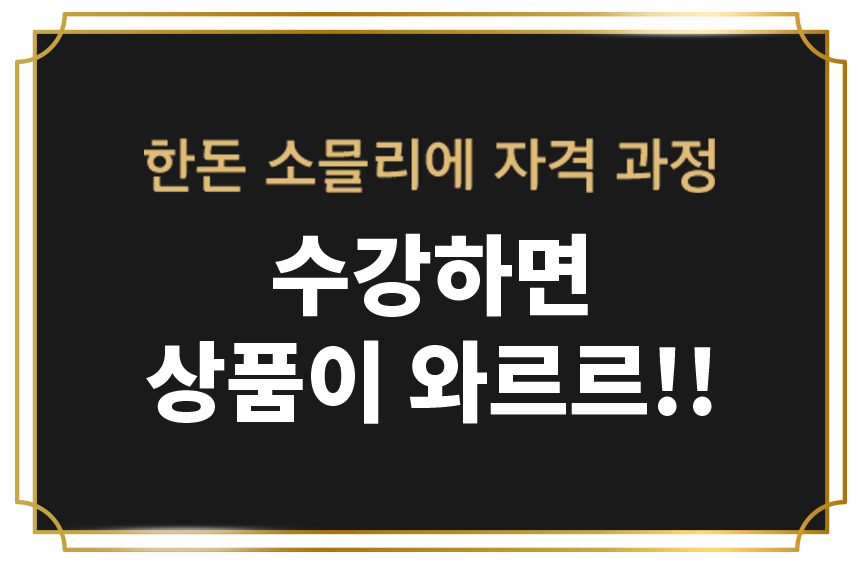
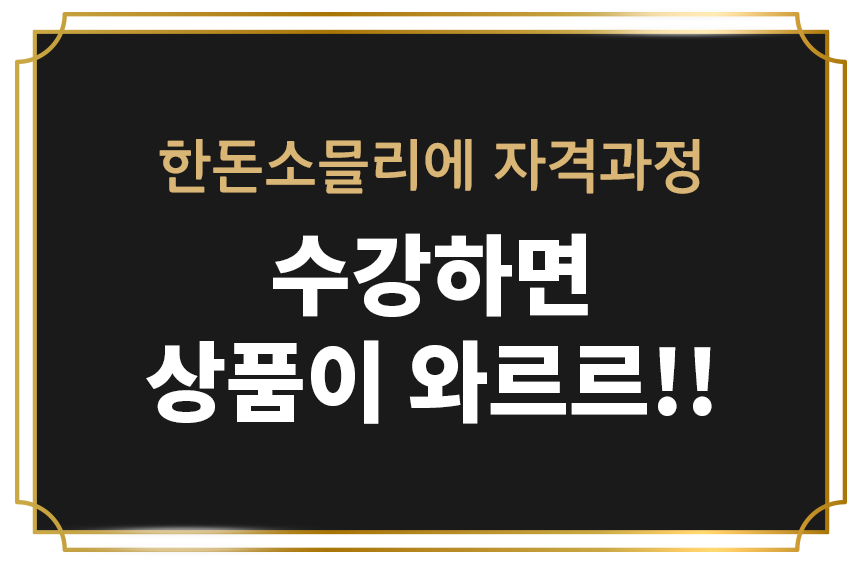
소스 최신화

Changed region(s): [[0.1515, 0.2382, 0.5455, 0.3573], [0.5758, 0.2382, 0.8485, 0.3573]]

diff --git a/99.src/m/index.html b/99.src/m/index.html
@@ -5,6 +5,7 @@
     <meta http-equiv="Content-Type" content="text/html; charset=utf-8" />
     <meta name="viewport" content="width=device-width, initial-scale=1.0" />
     <meta http-equiv="X-UA-Compatible" content="IE=edge" />
+    <meta name="format-detection" content="telephone=no" />
 
     <title>한돈대학</title>
     <meta name="description" content="돈믈리에">
@@ -46,7 +47,7 @@
                             <a href="javascript: void(0);" class="slnb_link" lnb-index="2">
                                 <span class="slnb_txt_box">
                                 <span class="slnb_txt">
-                                    한돈 소믈리에 자격증
+                                    한돈소믈리에 자격증
                                 </span>
                                 </span>
                             </a>
@@ -81,7 +82,7 @@
                     <div class="section_cont">
                         <div class="s01_text_w">
                             <span class="s01_text">
-                            한돈대학 한돈 소믈리에 자격증
+                            한돈대학 한돈소믈리에 자격증
                         </span>
                             <div class="s01_motion_text" data-aos="fade-up" data-aos-duration="3000">
                                 증명하라!<br/> 당신의 고기부심
@@ -104,6 +105,10 @@
             <div id="section_02" class="section_02_w" style="background-image:url('../public/imgs/m/s02_bg.jpg');">
                 <div class="section_inner">
                     <div class="section_cont">
+                        <div class="section_cont" style="text-align: center;">
+                            <span class="s02_title">한돈소믈리에 교육과정<br>지식돈돈!! 한돈능력자 되기!</span>
+                        </div>
+                        <br>
                         <div class="section_left">
                             <div class="s02_image_w">
                                 <img src="../public/imgs/m/s02_left_img.png" alt="한돈 소믈리에 자격증 사전 수강 신청만 해도 선물이 펑펑!">
@@ -155,16 +160,16 @@
                         </div>
                         <div class="section_right">
                             <div class="s0301_motion_text" data-aos="fade-up" data-aos-duration="3000">
-                                한돈 소믈리에 자격증에<br/> 도전해야 하는 7가지 이유
+                                한돈소믈리에 자격증에<br/> 도전해야 하는 7가지 이유
                             </div>
                             <div class="s0302_motion_text" data-aos="fade-up" data-aos-duration="3500">
                                 <ul>
                                     <li><span class="number">1</span>당신의 고기부심은 한낱 허세가 아니었음을 증명할 수 있다.</li>
-                                    <li><span class="number">2</span>돈과 명예를 가진 상위 0.1% 돼지 전문가가 될 수 있다.</li>
-                                    <li><span class="number">3</span>불판위의 권력자! 고기 집게 독점권으로 고기지식 TMI 대방출이 가능하다.</li>
+                                    <li><span class="number">2</span>돈(豚)과 명예를 가진 상위 0.1% 한돈 전문가가 될 수 있다.</li>
+                                    <li><span class="number">3</span>불판위의 권력자! 고기 집게 독점권으로 한돈지식 TMI 대방출이 가능하다.</li>
                                     <li><span class="number">4</span>남들의 시선을 즐겨라, 당신의 한돈 부심을 SNS에 마음껏 알릴 수 있다.</li>
                                     <li><span class="number">5</span>숙련된 손놀림, 철저한 각도 조절과 완벽한 타이밍으로 고기를 뒤집는 순간!<br/>상대방은 이미 당신에게 폴인럽.. 매력 포텐 뽐뿌의 지름길!</li>
-                                    <li><span class="number">6</span>1등급 바로 너! 사장님이 꽁꽁 숨겨놓은 고퀄리티 고기도 놓치지 않고 획득할 수 있다.</li>
+                                    <li><span class="number">6</span>1등급 바로 너! 사장님이 꽁꽁 숨겨놓은 고퀄리티 한돈도 놓치지 않고 획득할 수 있다.</li>
                                     <li><span class="number">7</span>고기를 태워도 마이야르라고 이야기 할 수 있는 용서권을 얻는다.</li>
                                 </ul>
                             </div>
@@ -194,9 +199,10 @@
                 <div class="section_inner">
                     <div class="section_cont">
                         <div class="s05_text">
+                            <span class="s05_title_sub2">단 3회 온라인 강의 수강으로<br>이제부터 나도 한돈소믈리에!</span>
                             <strong class="s05_title_w">
                             <span class="s05_title_sub">지금부터 - 당신의 고기부심 체크!</span>
-                            한돈 소믈리에<br/>자격과정
+                            한돈소믈리에<br/>자격과정
                         </strong>
                             <div class="s05_text_w">
                                 <strong>밥상위의 국가대표 우리 돼지 한돈</strong> 고기를 먹고 요리하는 즐거움을 느낄 수 있도록 전문 교육강사가 기초상식부터 요리까지 높은 퀄리티의 강의를 제공합니다.<br/><br/> 한돈 프로 자격 과정에서 여러분은 취향에 맞는 좋은 돼지고기와 고기부위를 고르는 법부터 각 부위별 영양분을 알고<br/> 맞춤형 레시피를 만드는 방법을 배울 수 있습니다.
@@ -217,7 +223,7 @@
                             </div>
                         </div>
                         <div class="s05_step_date">
-                            2021. 10. 18 (월)
+                            2021. 10. 25 (월)
                             <span>클래스 OPEN!</span>
                         </div>
                     </div>
@@ -229,8 +235,8 @@
                 <div class="section_inner">
                     <div class="section_cont">
                         <div class="s06_title">
-                            <img src="../public/imgs/m/s06_title.png" alt="한돈 소믈리에 자격 과정 수강하면 상품이 와르르!!">
-                            <span class="s06_sub_text">한돈 소믈리에 교육 수강하고 푸짐한 상품 한 상 들여가세요.</span>
+                            <img src="../public/imgs/m/s06_title.png" alt="한돈소믈리에 자격 과정 수강하면 상품이 와르르!!">
+                            <span class="s06_sub_text">한돈소믈리에 교육 수강하고 푸짐한 상품 한 상 들여가세요.</span>
                         </div>
                     </div>
                     <div class="s06_motion_text" data-aos="fade-up" data-aos-duration="3000">
@@ -241,16 +247,16 @@
                 <div class="footer">
                     <div class="footer_inner">
                         <div class="footer_text_list">
-                          <span class="ftl_cont">법인명(상호) : 한돈소믈리에 운영사무국(한돈자조금)</span>
-                          <span class="ftl_cont">대표자(성명) : 김명준</span>
-                          <span class="ftl_cont">사업자 등록번호 안내 : 899-88-00918</span>
-                          <span class="ftl_cont">통신판매업 신고 제2017-서울서초-0176호</span>
-                          <span class="ftl_cont">전화 : 02-2135-8473</span>
-                          <span class="ftl_cont">팩스 : 02-2135-8471</span>
+                            <span class="ftl_cont">법인명(상호) : 한돈소믈리에 운영사무국(한돈자조금)</span>
+                            <span class="ftl_cont">대표자(성명) : 김명준</span><br/>
+                            <span class="ftl_cont">사업자 등록번호 안내 : 899-88-00918</span><br/>
+                            <span class="ftl_cont">통신판매업 신고 제2017-서울서초-0176호</span><br/>
+                            <span class="ftl_cont">전화 : 02-2135-8473</span>
+                            <span class="ftl_cont">팩스 : 02-2135-8471</span>
                         </div>
                         <div class="footer_text_list2">
-                          <span class="ftl_cont">한돈소믈리에 운영사무국은 한돈소믈리에 자격증 교육과정 운영대행 업무를 맡고 있습니다.</span>
-                          <span class="ftl_cont">Copyright © mall.han-don.com. All rights reserved.</span>
+                            <span class="ftl_cont">&#8251 한돈소믈리에 운영사무국은 한돈소믈리에 자격증 교육과정 운영대행 업무를 맡고 있습니다.</span>
+                            <span class="ftl_cont">Copyright © mall.han-don.com. All rights reserved.</span>
                         </div>
                     </div>
                 </div>
@@ -262,10 +268,10 @@
 
     </div>
     <script type="text/javascript" src="https://code.jquery.com/jquery-3.6.0.min.js"></script>
-    <script type="text/javascript" src="/public/js/slick-1.6.0.min.js"></script>
+    <script type="text/javascript" src="../public/js/slick-1.6.0.min.js"></script>
     <script src="https://unpkg.com/aos@2.3.1/dist/aos.js"></script>
-    <script type="text/javascript" src="/public/js/device.js"></script>
-    <script type="text/javascript" src="/public/js/main.js"></script>
+    <script type="text/javascript" src="../public/js/device.js"></script>
+    <script type="text/javascript" src="../public/js/main.js"></script>
     <script>
         $(document).ready(function() {
             $('#lnbBtnOpen').on('click', function() {

diff --git a/99.src/index.html b/99.src/index.html
@@ -46,7 +46,7 @@
                             <a href="#section_03" class="slnb_link">
                                 <span class="slnb_txt_box">
                                 <span class="slnb_txt">
-                                    한돈 소믈리에 자격증
+                                    한돈소믈리에 자격증
                                 </span>
                                 </span>
                             </a>
@@ -80,7 +80,7 @@
                         <div class="s01_text_w">
                             <span class="s01_text">
                             한돈대학<br/>
-                            한돈 소믈리에 자격증
+                            한돈소믈리에 자격증
                         </span>
                             <div class="s01_motion_text" data-aos="fade-up" data-aos-duration="3000">
                                 증명하라!<br/> 당신의 고기부심
@@ -101,10 +101,13 @@
             <!-- 콘텐츠02 -->
             <div id="section_02" class="section_02_w" style="background-image:url('./public/imgs/pc/s02_bg.jpg');">
                 <div class="section_inner">
+                    <div class="section_cont" style="text-align: center;">
+                        <b><span class="s02_title">한돈소믈리에 교육과정<br>지식돈돈!! 한돈능력자 되기!</span></b>
+                    </div>
                     <div class="section_cont">
                         <div class="section_left">
                             <div class="s02_motion_text" data-aos="fade-up" data-aos-duration="3000">
-                                <img src="./public/imgs/pc/s02_title.png" alt="한돈 소믈리에 자격증 사전 수강 신청만 해도 선물이 펑펑!">
+                                <img src="./public/imgs/pc/s02_title.png" alt="한돈소믈리에 자격증 사전 수강 신청만 해도 선물이 펑펑!">
                             </div>
                             <div class="s02_image_w">
                                 <img src="./public/imgs/pc/s02_left_img.png" alt="">
@@ -156,16 +159,16 @@
                         </div>
                         <div class="section_right">
                             <div class="s0301_motion_text" data-aos="fade-up" data-aos-duration="3000">
-                                한돈 소믈리에 자격증에<br/> 도전해야 하는 7가지 이유
+                                한돈소믈리에 자격증에<br/> 도전해야 하는 7가지 이유
                             </div>
                             <div class="s0302_motion_text" data-aos="fade-up" data-aos-duration="3500">
                                 <ul>
                                     <li><span class="number">1</span>당신의 고기부심은 한낱 허세가 아니었음을 증명할 수 있다.</li>
-                                    <li><span class="number">2</span>돈과 명예를 가진 상위 0.1% 돼지 전문가가 될 수 있다.</li>
-                                    <li><span class="number">3</span>불판위의 권력자! 고기 집게 독점권으로 고기지식 TMI 대방출이 가능하다.</li>
+                                    <li><span class="number">2</span>돈(豚)과 명예를 가진 상위 0.1% 한돈 전문가가 될 수 있다.</li>
+                                    <li><span class="number">3</span>불판위의 권력자! 고기 집게 독점권으로 한돈지식 TMI 대방출이 가능하다.</li>
                                     <li><span class="number">4</span>남들의 시선을 즐겨라, 당신의 한돈 부심을 SNS에 마음껏 알릴 수 있다.</li>
                                     <li><span class="number">5</span>숙련된 손놀림, 철저한 각도 조절과 완벽한 타이밍으로 고기를 뒤집는 순간!<br/>상대방은 이미 당신에게 폴인럽.. 매력 포텐 뽐뿌의 지름길!</li>
-                                    <li><span class="number">6</span>1등급 바로 너! 사장님이 꽁꽁 숨겨놓은 고퀄리티 고기도 놓치지 않고 획득할 수 있다.</li>
+                                    <li><span class="number">6</span>1등급 바로 너! 사장님이 꽁꽁 숨겨놓은 고퀄리티 한돈도 놓치지 않고 획득할 수 있다.</li>
                                     <li><span class="number">7</span>고기를 태워도 마이야르라고 이야기 할 수 있는 용서권을 얻는다.</li>
                                 </ul>
                             </div>
@@ -195,9 +198,10 @@
                 <div class="section_inner">
                     <div class="section_cont">
                         <div class="s05_text">
+                            <span class="s05_title_sub2">단 3회 온라인 강의 수강으로<br>이제부터 나도 한돈소믈리에!</span>
                             <strong class="s05_title_w">
                             <span class="s05_title_sub">지금부터 - 당신의 고기부심 체크!</span>
-                            한돈 소믈리에 자격과정
+                            한돈소믈리에 자격과정
                         </strong>
                             <div class="s05_text_w">
                                 <strong>밥상위의 국가대표 우리 돼지 한돈</strong> 고기를 먹고 요리하는 즐거움을 느낄 수 있도록 전문 교육강사가 기초상식부터 요리까지 높은 퀄리티의 강의를 제공합니다.<br/> 한돈 프로 자격 과정에서 여러분은 취향에 맞는 좋은 돼지고기와 고기부위를 고르는 법부터 각 부위별 영양분을 알고<br/> 맞춤형 레시피를 만드는 방법을 배울 수 있습니다.
@@ -218,7 +222,7 @@
                             </div>
                         </div>
                         <div class="s05_step_date">
-                            2021. 10. 18 (월) 클래스 OPEN!
+                            2021. 10. 25 (월) 클래스 OPEN!
                         </div>
                     </div>
                 </div>
@@ -230,7 +234,7 @@
                     <div class="section_cont">
                         <div class="s06_title">
                             <img src="./public/imgs/pc/s06_title.png" alt="한돈 소믈리에 자격 과정 수강하면 상품이 와르르!!">
-                            <span class="s06_sub_text">한돈 소믈리에 교육 수강하고 푸짐한 상품 한 상 들여가세요.</span>
+                            <span class="s06_sub_text">한돈소믈리에 교육 수강하고 푸짐한 상품 한 상 들여가세요.</span>
                         </div>
                         <div class="s06_motion_text" data-aos="fade-up" data-aos-duration="3000">
                             <img src="./public/imgs/pc/s06_img.png" alt="한돈 상품 이미지">
@@ -249,7 +253,7 @@
                             <span class="ftl_cont">팩스 : 02-2135-8471</span>
                         </div>
                         <div class="footer_text_list2">
-                            <span class="ftl_cont">한돈소믈리에 운영사무국은 한돈소믈리에 자격증 교육과정 운영대행 업무를 맡고 있습니다.</span>
+                            <span class="ftl_cont">&#8251 한돈소믈리에 운영사무국은 한돈소믈리에 자격증 교육과정 운영대행 업무를 맡고 있습니다.</span>
                             <span class="ftl_cont">Copyright © mall.han-don.com. All rights reserved.</span>
                         </div>
                     </div>
@@ -263,6 +267,7 @@
     <script type="text/javascript" src="./public/js/slick-1.6.0.min.js"></script>
     <script src="https://unpkg.com/aos@2.3.1/dist/aos.js"></script>
     <script type="text/javascript" src="./public/js/device.js"></script>
+
     <script>
         if (checkMobile()) {
             location.href = './m/index.html';

diff --git a/99.src/public/js/device.js b/99.src/public/js/device.js
@@ -8,7 +8,6 @@ function getOsInfo() {
     // OS 버전 보기 
     var uanaVigatorOs = navigator.userAgent;
     var AgentUserOs = uanaVigatorOs.replace(/ /g, '');
-    var OSName = "";
 
     // This script sets OSName variable as follows: 
     // "Windows" for all versions of Windows 
@@ -16,12 +15,24 @@ function getOsInfo() {
     // "Linux" for all versions of Linux 
     // "UNIX" for all other UNIX flavors 
     // "Unknown OS" indicates failure to detect the OS 
-    new function() {
-        var OsNo = navigator.userAgent.toLowerCase();
-        jQuery.os = { Linux: /linux/.test(OsNo), Unix: /x11/.test(OsNo), Mac: /mac/.test(OsNo), Windows: /win/.test(OsNo) }
+    var OsNo = navigator.userAgent.toLowerCase();
+    jQuery.os = { Linux: /linux/.test(OsNo), Unix: /x11/.test(OsNo), Mac: /mac/.test(OsNo), Windows: /win/.test(OsNo) }
+
+    function getAndroidDevName() {
+        var regex = /Android (.*);.*;\s*(.*)\sBuild/;
+        var match = regex.exec(uanaVigatorOs);
+        if(match) {
+            var ver = match[1];
+            var dev_name = match[2];
+            return "Android " + ver + " " + dev_name;
+        }
+
+        return "Android";
+
     }
 
     function OSInfoDev() {
+        var OSName = '';
         if ($.os.Windows) {
             if (AgentUserOs.indexOf("WindowsPhone") != -1) OSName = "Windows Phone";
             else { OSName = "Windows"; }
@@ -51,11 +62,12 @@ function getOsInfo() {
                 OSName = "MacOS (Unknown)";
             }
         } else {
-            OSName = "Unknown OS";
+            OSName = "Unknown";
         }
 
-        return OSName;
+        return OSName || 'Unknown';
     }
 
     return OSInfoDev();
 }
+

diff --git a/99.src/public/js/main.js b/99.src/public/js/main.js
@@ -89,7 +89,6 @@ function submitBooking(event) {
     }
 
     var regName = $('#regName').val();
-
     var name_regex = /^[ㄱ-ㅎ|가-힣|a-z|A-Z|0-9| ]+$/;
     if (!name_regex.test(regName)) {
         alert('성함이 잘못입력되었습니다.');
@@ -125,11 +124,6 @@ function submitBooking(event) {
         regDevice: checkMobile() ? 'mobile' : 'pc',
         regDetail: getOsInfo().trim()
     };
-
-    // alert('[submitBooking] regName: ' + reqParam.regName);
-    // alert('[submitBooking] regPhone: ' + reqParam.regPhone);
-    // alert('[submitBooking] regDevice: ' + reqParam.regDevice);
-    // alert('[submitBooking] regDetail: ' + reqParam.regDetail);
 
     // $.post('/api/regist.php', reqParam, function(jqXHR) {}, 'json' /* xml, text, script, html */ )
     //     .done(function(resultData) {
@@ -167,7 +161,7 @@ function submitBooking(event) {
                 $('#formAgree').prop('checked', false);
             }
         }, // 요청 완료 시
-        error: function(jqXHR) {}, // 요청 실패.
+        error: function(jqXHR) {alert(jqXHR);}, // 요청 실패.
         complete: function(jqXHR) {} // 요청의 실패, 성공과 상관 없이 완료 될 경우 호출
     });
 

diff --git a/99.src/public/css/common_pc.css b/99.src/public/css/common_pc.css
@@ -389,6 +389,7 @@ select {
     position: relative;
     z-index: 3;
 }
+.section_cont::after { content: ''; display: block; clear: both; }
 
 .section_01_w {
     background-color: #0a242d;
@@ -505,9 +506,10 @@ select {
 .s02_title {
     display: block;
     color: #fff;
-    font-size: 34px;
+    font-size: 40px;
     font-family: '한돈';
-    font-weight: 200;
+    /* font-weight: 200; */
+    margin-bottom: 30px;
 }
 
 
